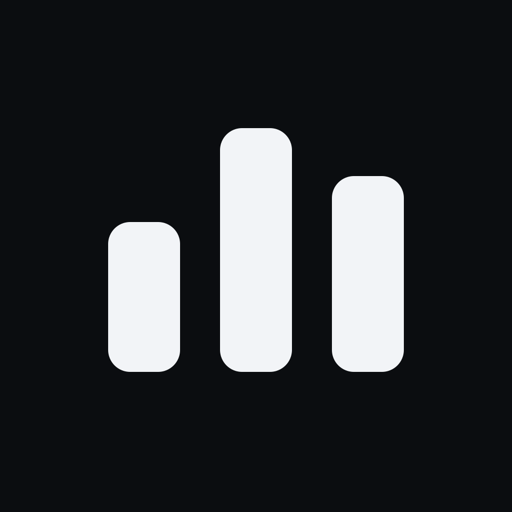
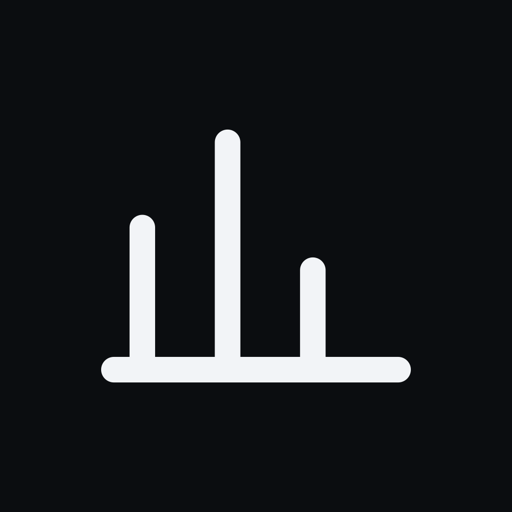
App-Symbol = Symbol des Tabs „Block“ (gleicher Pfad und Strich), sauber gerendert

Changed region(s): [[0.1875, 0.25, 0.8125, 0.75]]

diff --git a/index.html b/index.html
@@ -16,7 +16,7 @@
   <meta name="apple-mobile-web-app-status-bar-style" content="default">
   <meta name="apple-mobile-web-app-title" content="Training">
   <link rel="manifest" href="manifest.webmanifest">
-  <link rel="apple-touch-icon" href="icon-180.png?v=2">
+  <link rel="apple-touch-icon" href="icon-180.png?v=3">
   <link rel="icon" href="icon.svg" type="image/svg+xml">
   <link rel="stylesheet" href="farben.css">
   <link rel="stylesheet" href="stil.css">

diff --git a/sw.js b/sw.js
@@ -5,7 +5,7 @@
      schlechtem Empfang startet die App trotzdem sofort aus dem Cache.
    - Übungsbibliothek und Demo-Daten: erst Netz, Cache nur als Rückfall.
    - Pläne kommen über api.github.com und laufen nie durch den Service Worker. */
-const VERSION = 'v9';
+const VERSION = 'v10';
 const CACHE = `training-${VERSION}`;
 
 const OBERFLAECHE = [
